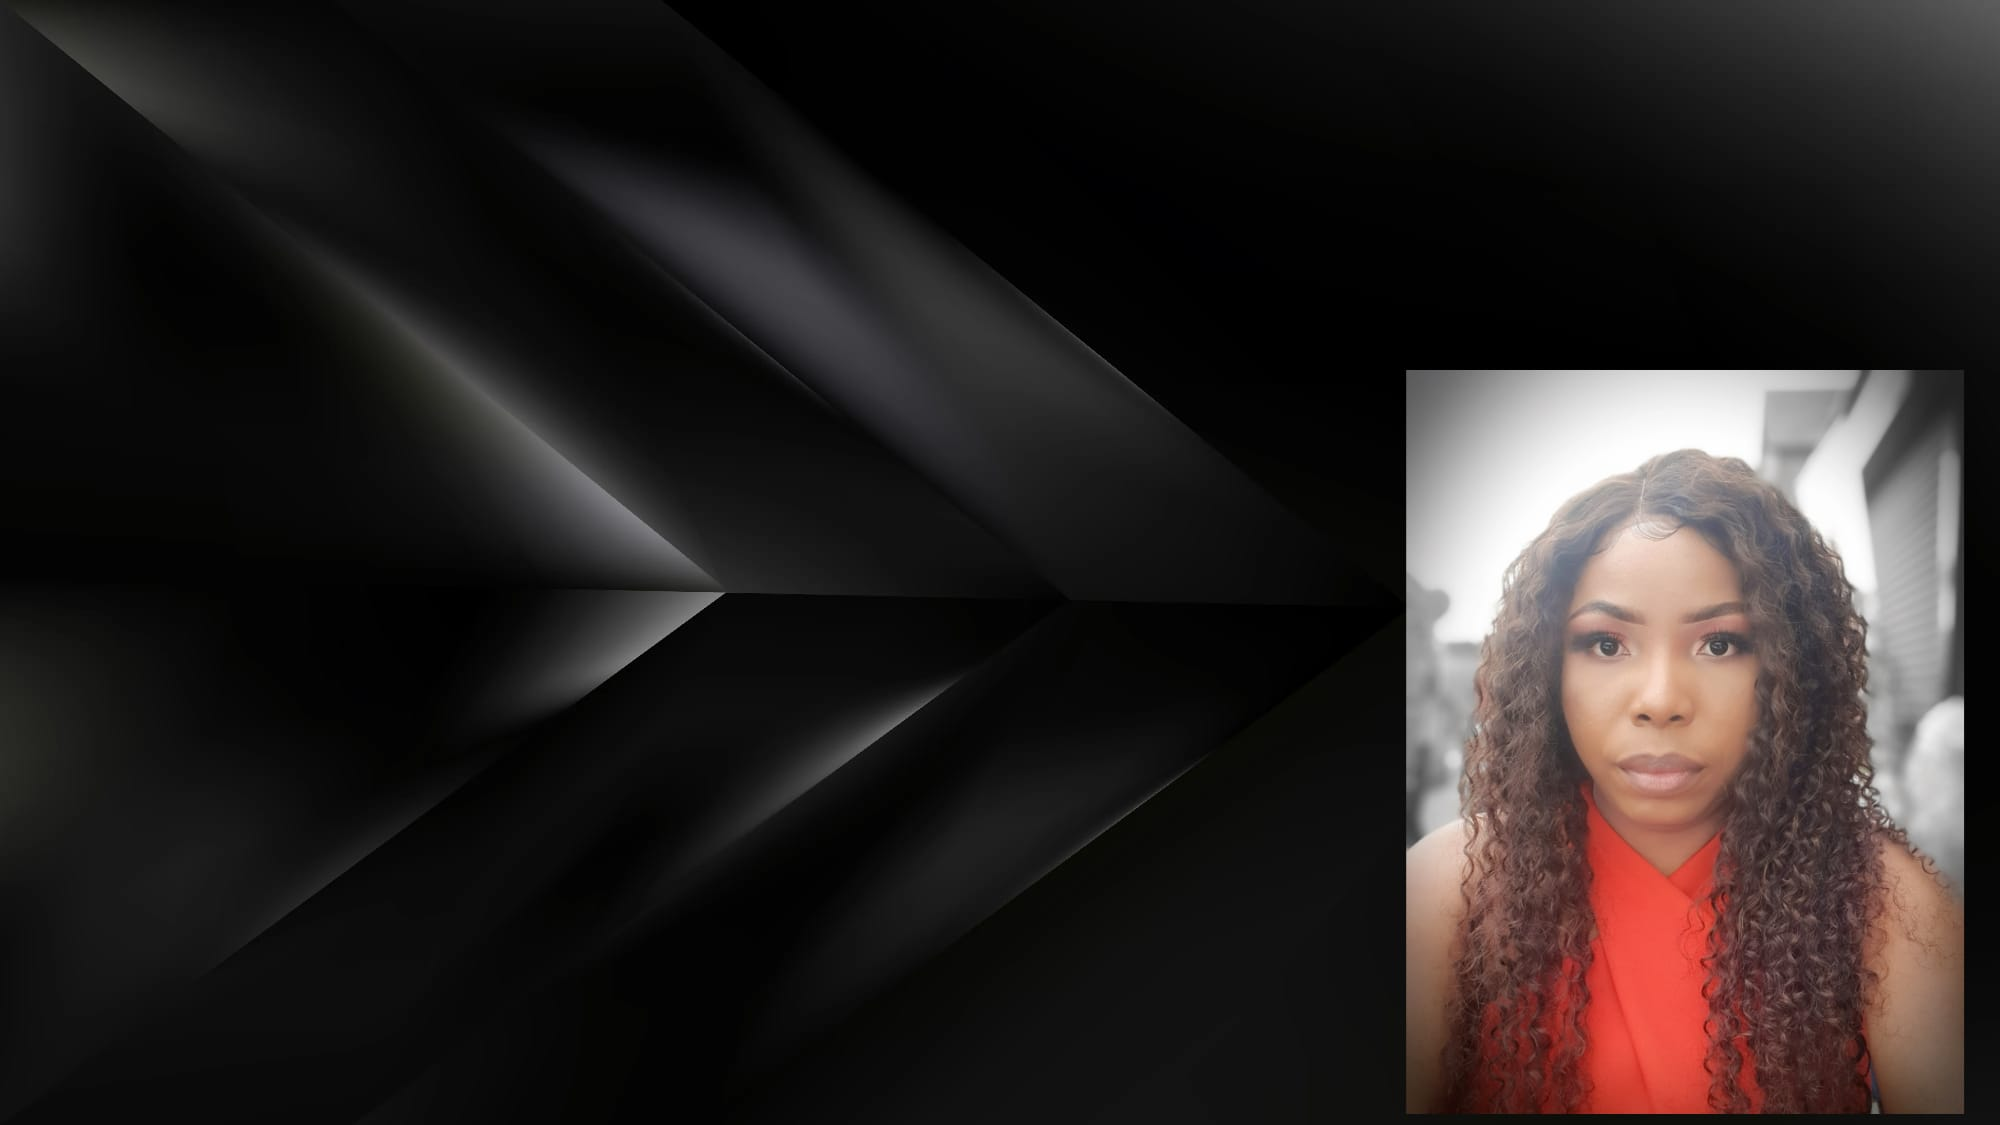
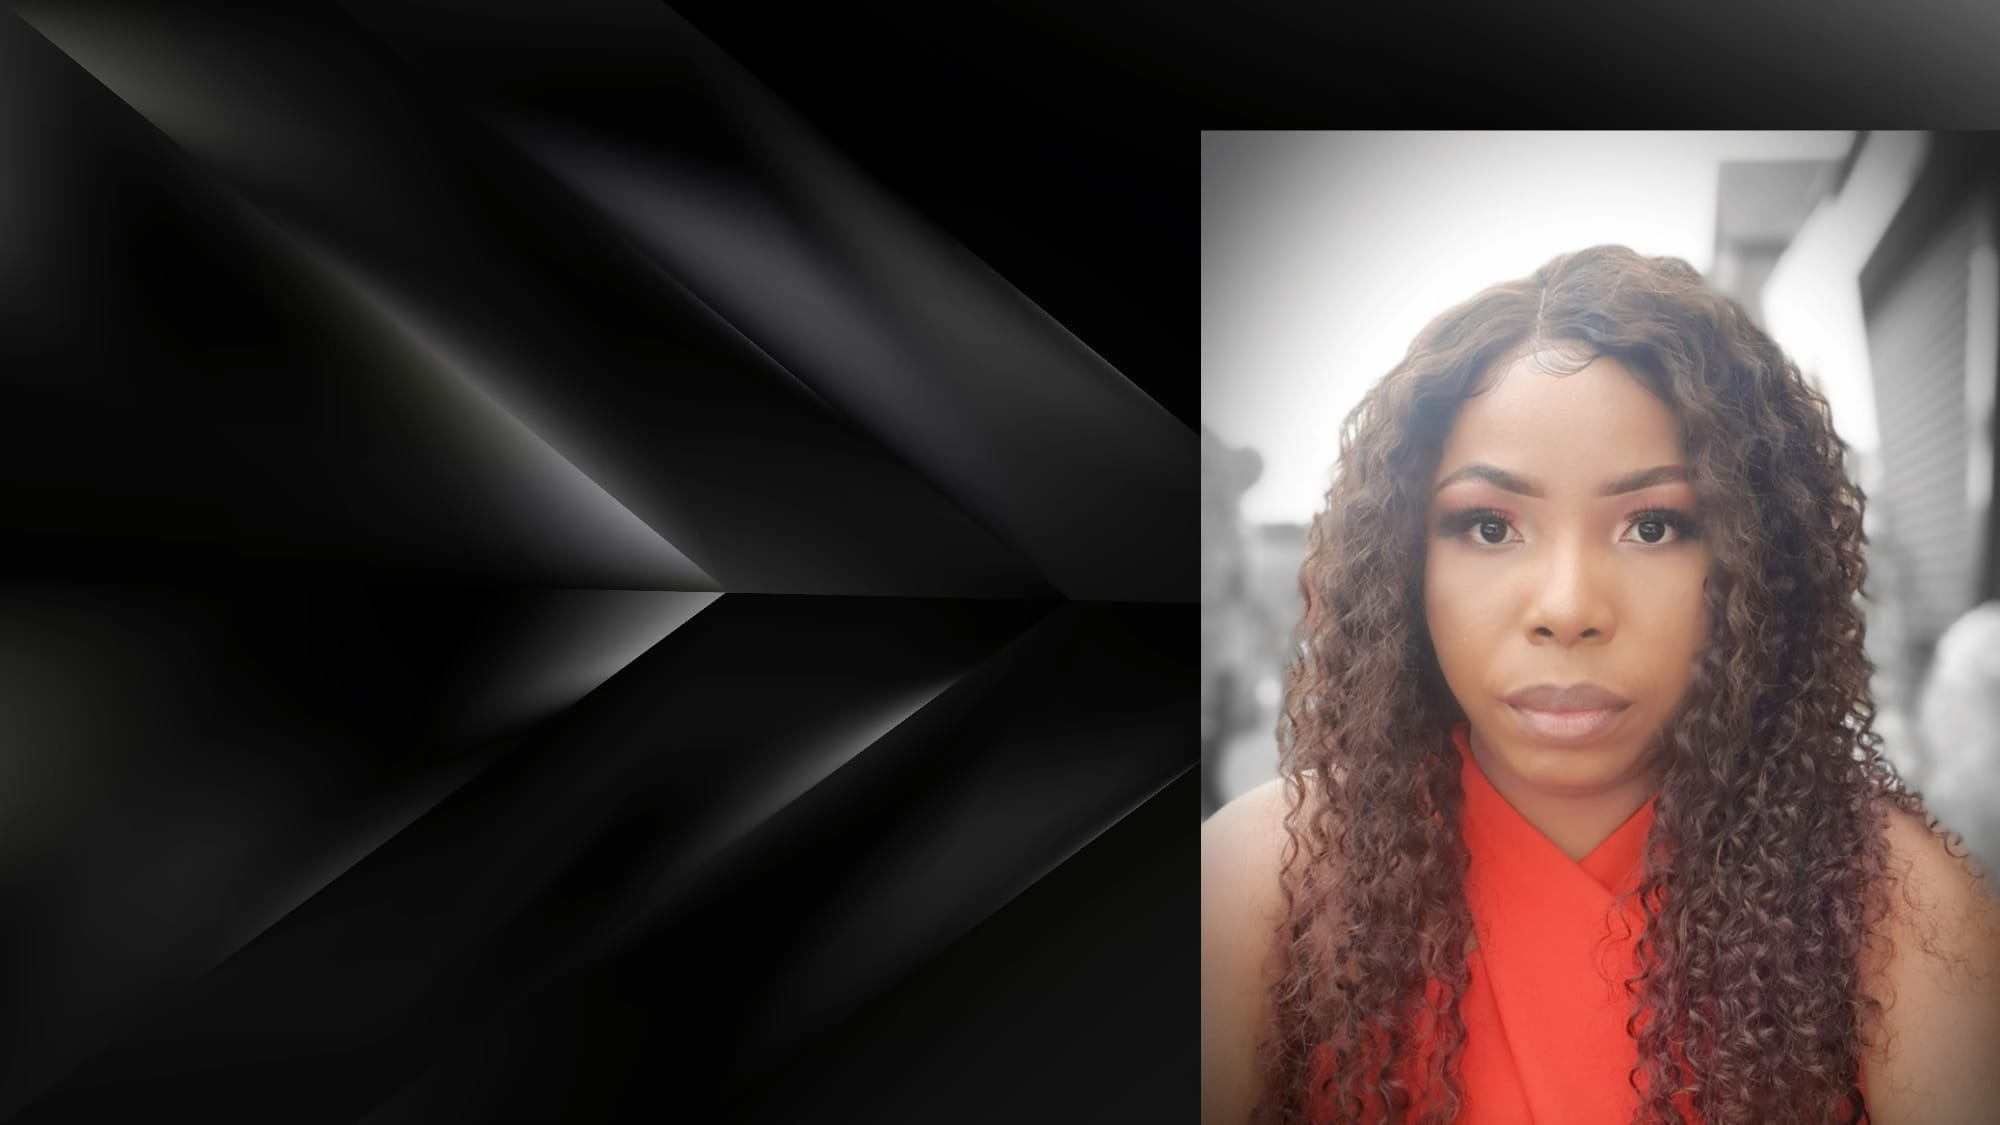
about me section

diff --git a/assests/css/style.css b/assests/css/style.css
@@ -10,7 +10,7 @@ body {
 .hero {
   height: 100vh;
   width: 100%;
-  background-image: url("../images/background-photo1.jpg");
+  background-image: url("../images/background-photo.jpg");
   background-color: #062e31;
   background-size: cover;
   background-position: left;
@@ -24,6 +24,7 @@ nav {
   padding-left: 5px;
   padding-right: 5px;
   font-size: large;
+  background-color: black;
 }
 .logo {
   color: rgb(240, 248, 255);
@@ -57,7 +58,7 @@ nav ul li a:hover {
   font-weight: bold;
   padding: 10px 30px;
   border: 2px solid transparent;
-  border-radius: 35px;
+  border-radius: 30px;
   text-decoration: none;
   transition: 0.5s;
   margin-right: 10px;
@@ -65,7 +66,7 @@ nav ul li a:hover {
 .btn:hover {
   transform: scale(1.2);
 }
-.main {
+.home {
   position: absolute;
   top: 50%;
   left: 8%;
@@ -81,4 +82,12 @@ h1 {
 h3 {
   color: rgb(240, 248, 255);
   font-size: 30px;
+}
+.img {
+  background-size: contain;
+}
+. {
+  background-image: url("../images/about-me-background.jpg");
+  height: 100vh;
+  width: 100%;
 }

diff --git a/index.html b/index.html
@@ -9,7 +9,6 @@
 
   <body>
     <!--hero section starts-->
-
     <div class="hero">
       <nav>
         <h2 class="logo">Nke<span>nice</span></h2>
@@ -21,11 +20,25 @@
         </ul>
         <a href="#" class="btn">Contact Me</a>
       </nav>
-      <section id="Home">
-      <div class="main">
+    </div>  
+<!--Home Section starts here-->
+      <div class="home">
         <h3>Hello, my name is</h3>
         <h1>Eunice Nkechi Opara</h1>
       </div>
+      </section>
+
+      <!--About Me Section starts here-->
+      <Section id="about_me">
+         <div id="pic">
+          <img src="./assests/images/about-me-photo.jpg" alt="">
+           <div id="intro">
+
+           </div>
+      </div>
+      </Section>
+
+     
         <!--<div class="subscribe">
           <form>
             <input
